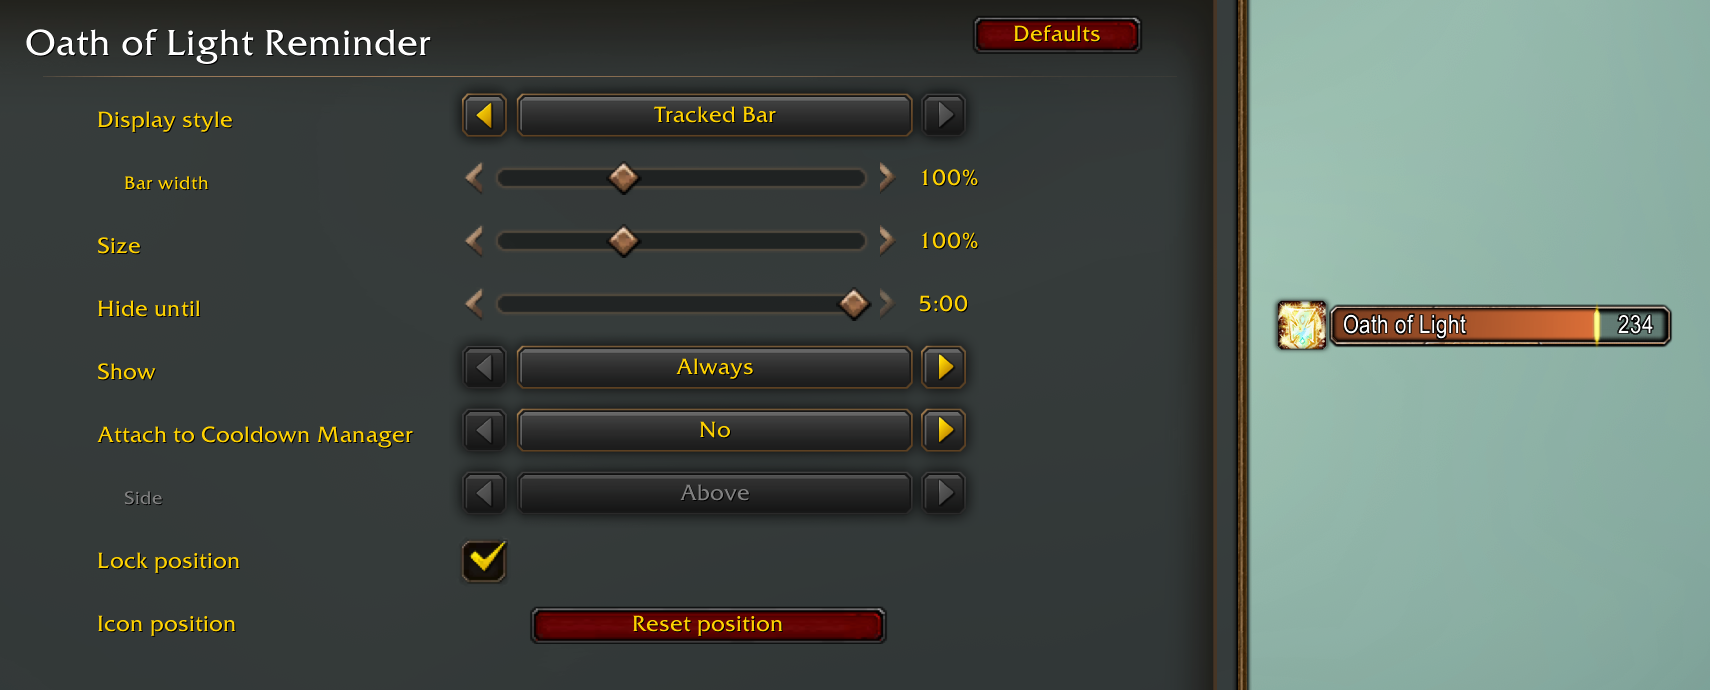
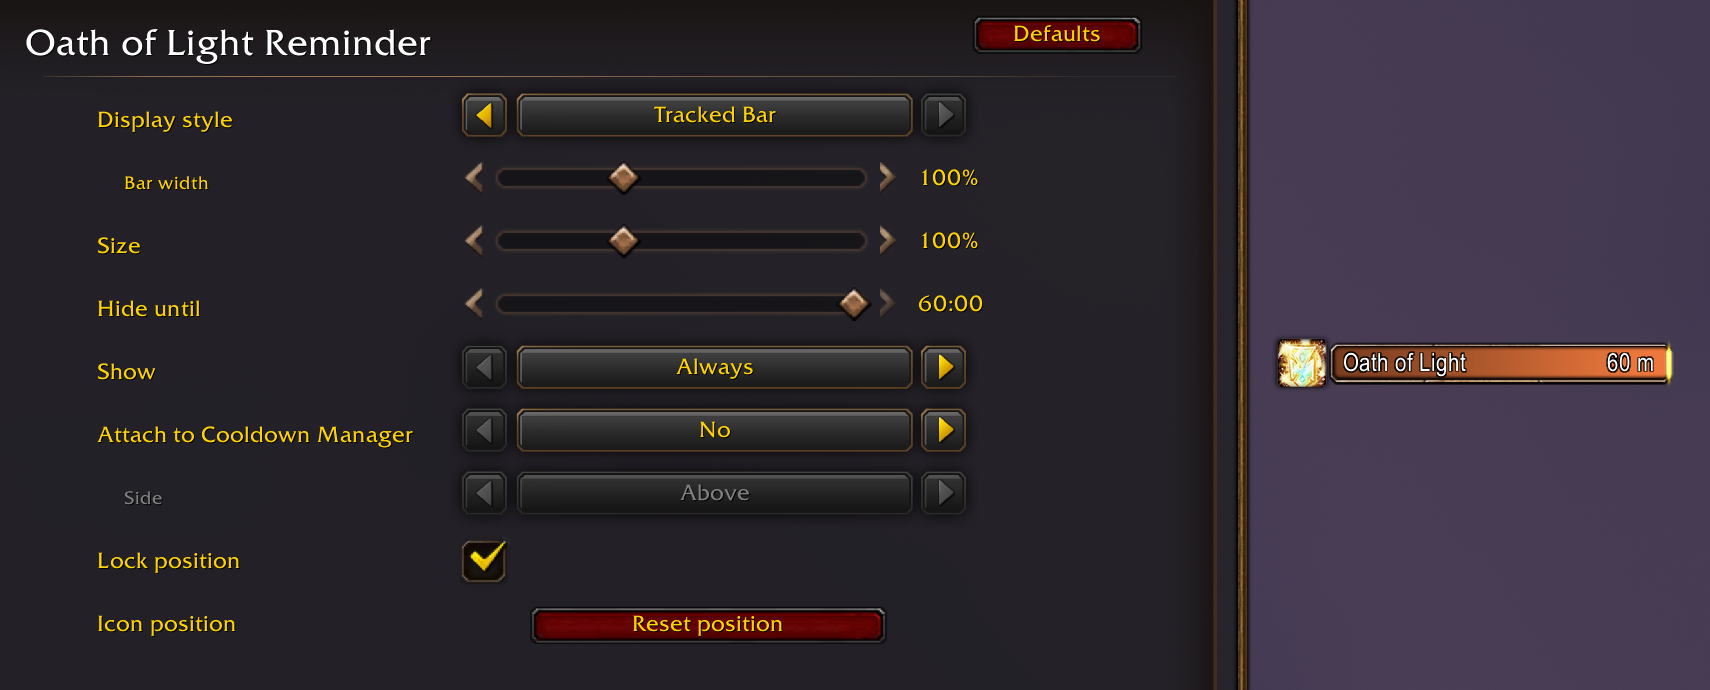
Count down 60 minutes for the longer Oath of Light

diff --git a/README.md b/README.md
@@ -5,7 +5,7 @@
 
 A simple on-screen timer that reminds Holy Paladins to keep Oath of Light up.
 
-Oath of Light lasts 5 minutes, and it's easy to forget to recast it in the middle of a dungeon.
+Oath of Light lasts 60 minutes, and over a long session of dungeons it's easy to lose track of when it runs out.
 This addon shows a small icon with a countdown, so you always know when it's time to put your Oath back on someone.
 
 
@@ -17,9 +17,9 @@ This addon shows a small icon with a countdown, so you always know when it's tim
   - **Default:** the countdown and "Recast" below the icon.
   - **Action Bar button:** the countdown on the icon, like a spell on your action bars.
   - **Tracked Buff:** looks like a tracked buff in the Cooldown Manager.
-  - **Tracked Bar:** looks like a tracked bar in the Cooldown Manager, with the spell name and the time left.
+  - **Tracked Bar:** looks like a tracked bar in the Cooldown Manager, with the spell name and the time left in minutes, like your buffs.
 - **Size:** Scale the icon or bar, and set the bar's width for the Tracked Bar style.
-- **Hide until needed:** Keep the icon hidden until only a set amount of time is left, or until it's time to recast.
+- **Hide until needed:** Keep the icon hidden until only 1 to 10 minutes are left, or until it's time to recast.
 - **In combat only:** Optionally hide the icon whenever you're out of combat.
 - **Survives reloads and relogs:** The timer picks up where it left off after `/reload` or logging back in.
 - **Movable:** Drag the icon wherever you like, then lock it so it can't be moved by accident.
@@ -38,7 +38,7 @@ This addon shows a small icon with a countdown, so you always know when it's tim
 ## How it works
 
 The addon tracks your cast of Oath of Light, not the buff itself.
-Buff data on other players isn't available to addons in dungeons, so the timer simply counts down 5 minutes from your cast.
+Buff data on other players isn't available to addons in dungeons, so the timer simply counts down 60 minutes from your cast.
 
 This means the icon can't tell if the Oath ends early, for example when your target dies, leaves the group or removes the buff.
 For a "time to recast" reminder this works well in practice.

diff --git a/CLAUDE.md b/CLAUDE.md
@@ -1,7 +1,7 @@
 # Oath of Light Reminder
 
 A WoW addon for the **WoW Forever** client.
-It reminds Paladins to recast the talent _Oath of Light_ (lasts 5 minutes) on an ally.
+It reminds Paladins to recast the talent _Oath of Light_ (lasts 60 minutes) on an ally.
 
 
 ## Decisions
@@ -9,7 +9,7 @@ It reminds Paladins to recast the talent _Oath of Light_ (lasts 5 minutes) on an
 - **Track the cast, never the buff.**
   Don't scan party or raid members, match names or read auras; names and aura data are secret in dungeons (see below).
   The icon can't tell if the Oath ends early, and that's fine.
-- **The 5-minute duration is hard-coded.**
+- **The 60-minute duration is hard-coded.**
   There is no API for a spell's duration.
 - **All saved data is per character.**
   Don't add account-wide saved variables.

diff --git a/CHANGELOG.md b/CHANGELOG.md
@@ -7,6 +7,15 @@ The format is based on [Keep a Changelog](https://keepachangelog.com/en/2.0.0/),
 
 ## [Unreleased]
 
+### Changed
+
+- The countdown now runs for 60 minutes, matching the longer Oath of Light.
+- The Tracked Bar style shows the time left in minutes, like your buffs, and in seconds near the end.
+- "Hide until" now goes up to 10 minutes in steps of one minute, or 60:00 to always show the icon.
+  A previously saved time is rounded to the nearest minute.
+  If it was at 5:00, which used to mean always shown, the icon now stays hidden until 5 minutes are left; set it to 60:00 to always show it.
+
+
 ## [1.0.0] - 2026-11-24
 
 ### Added
